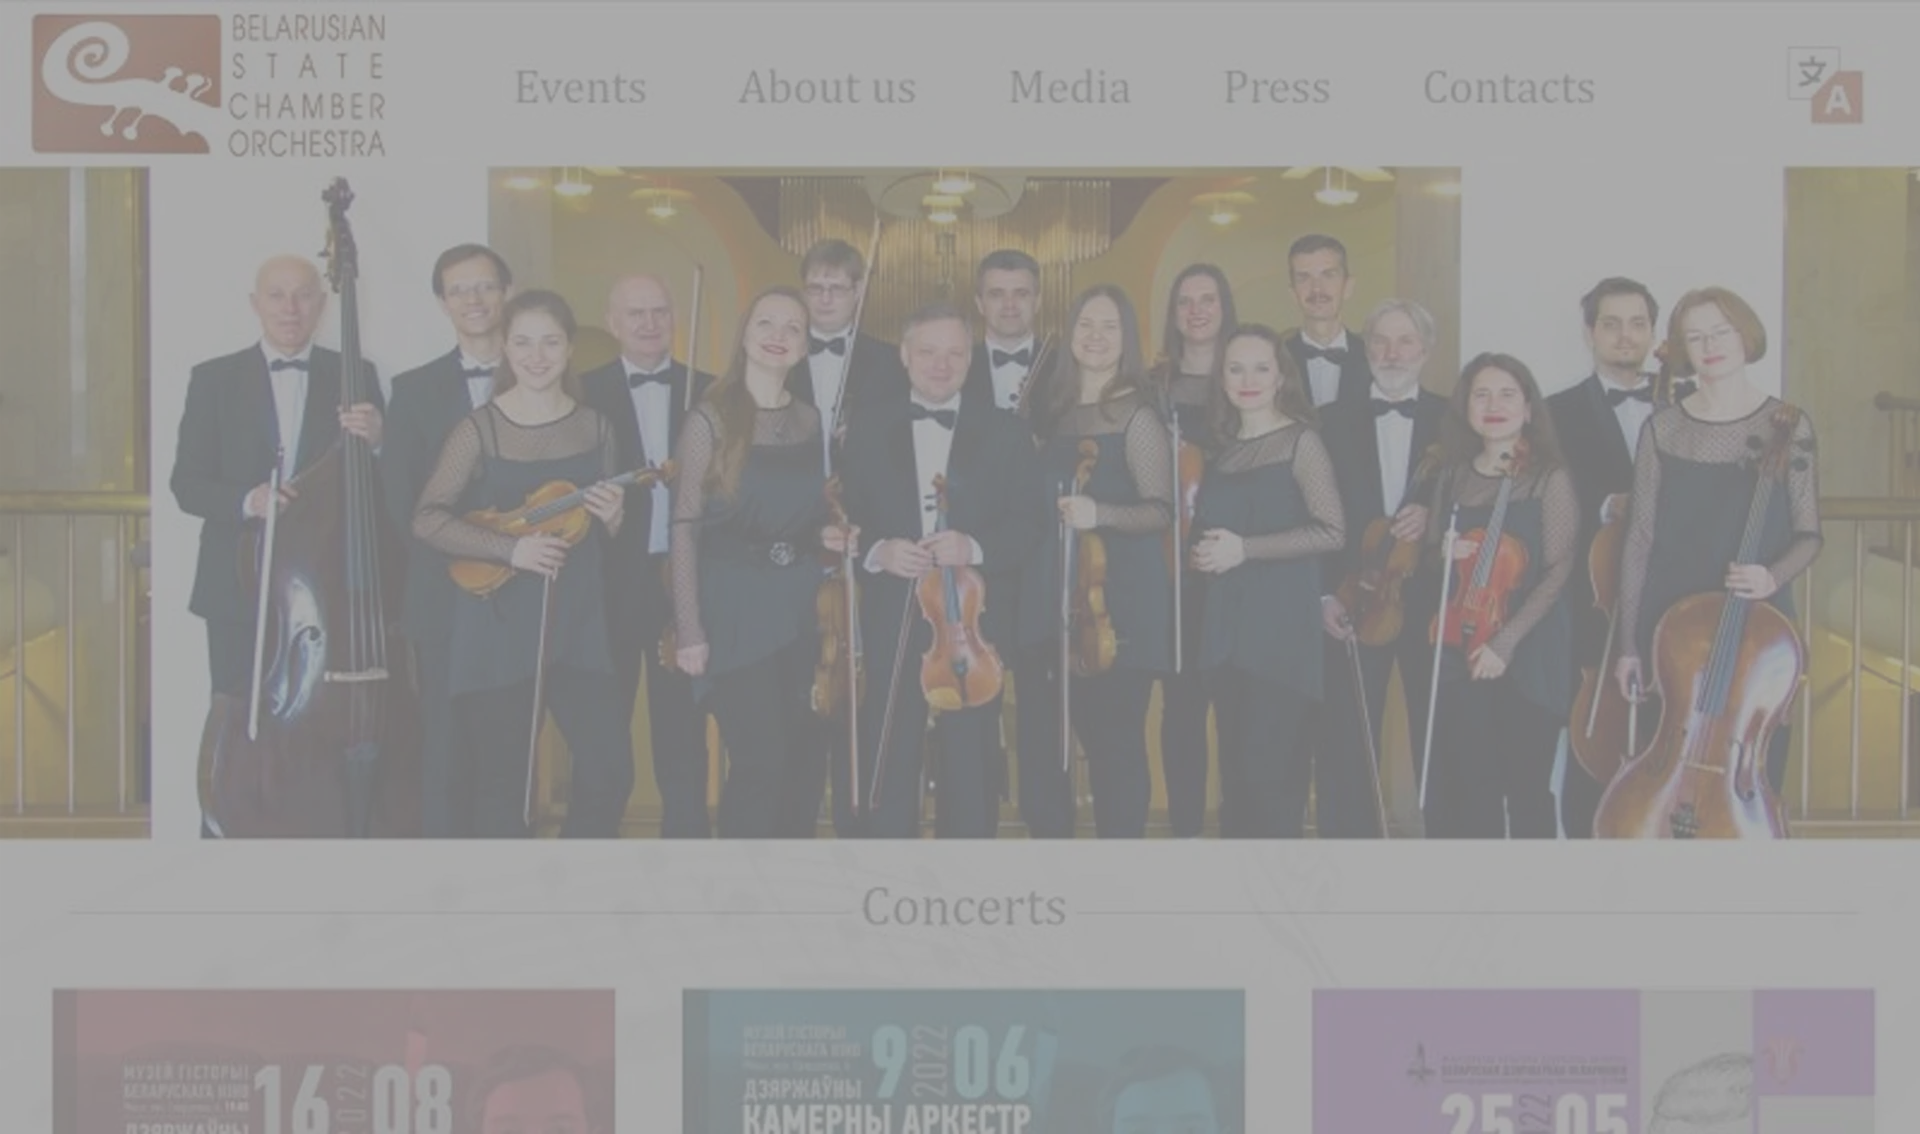
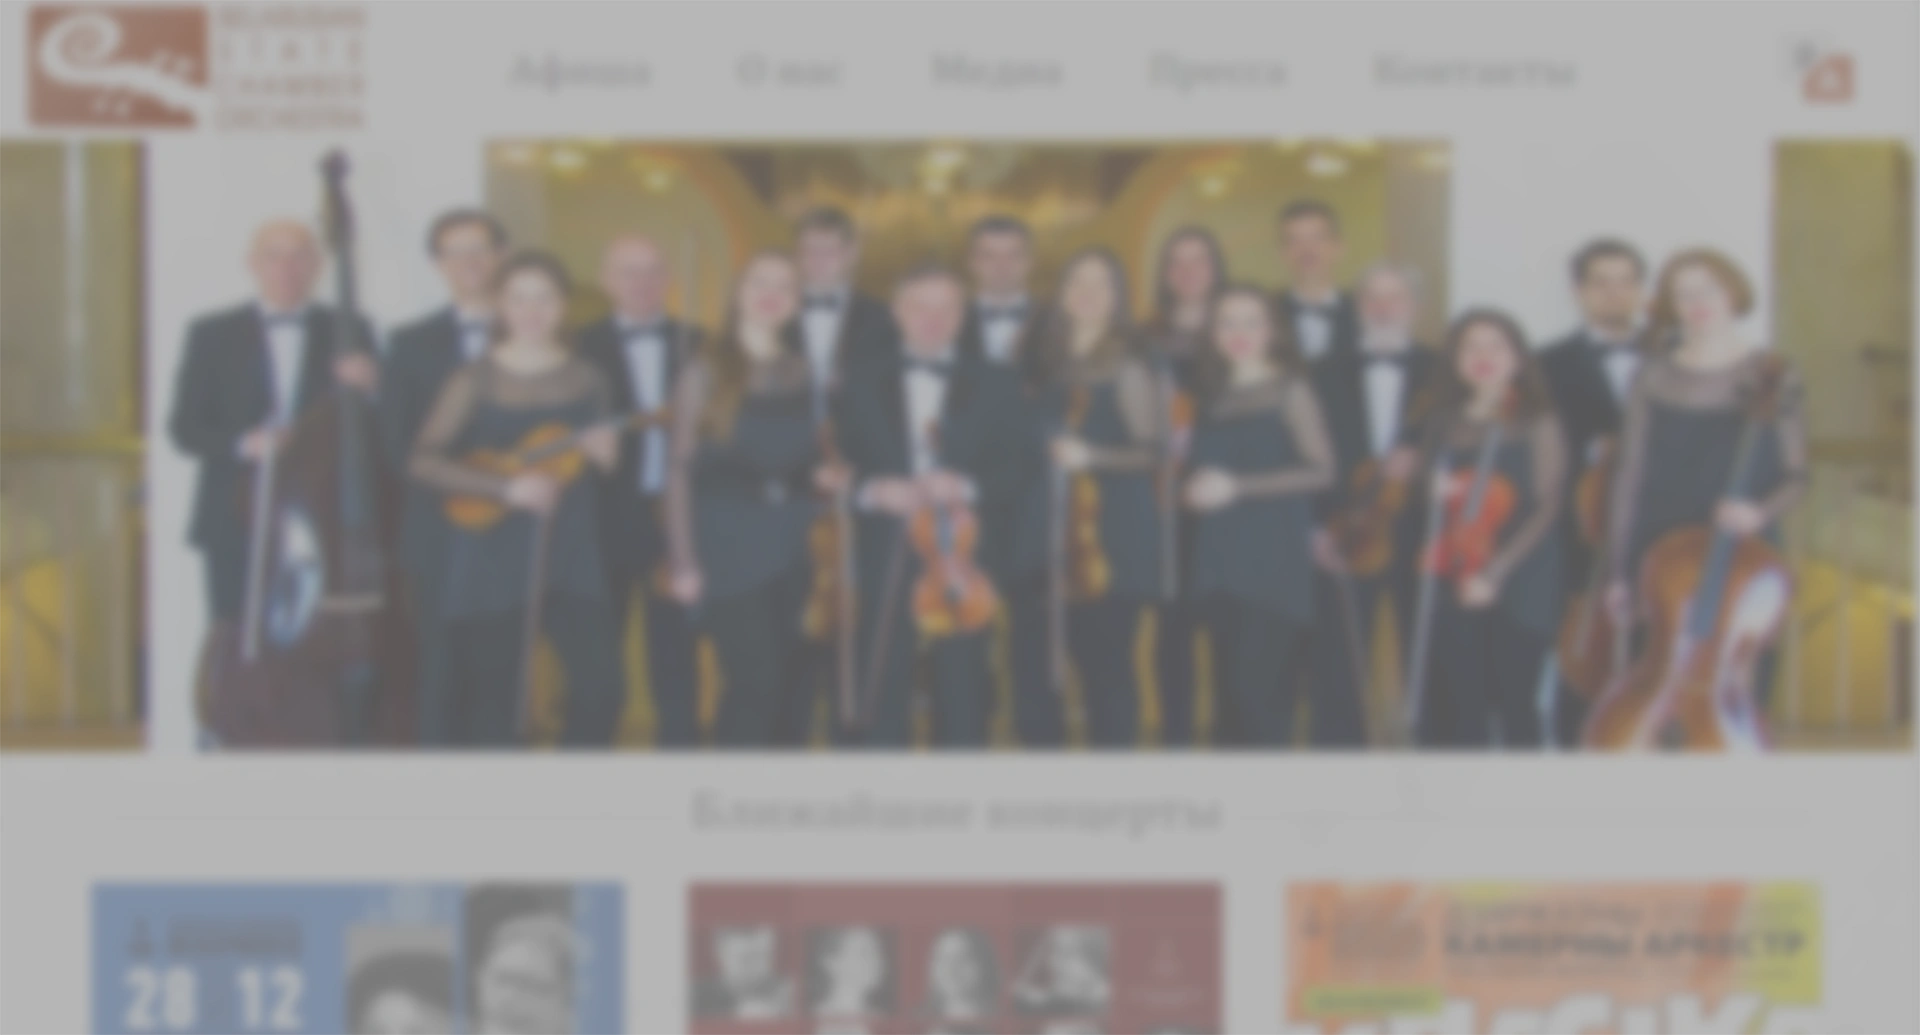
Slider

diff --git a/public/index.html b/public/index.html
@@ -74,19 +74,64 @@
 
     <section id="work">
         <h2>My work</h2>
-        <img class="arrow-side" src="img/controls/arrow-side.png" alt="" />
-        <img class="arrow-side rotate180" src="img/controls/arrow-side.png" alt="" />
-        <div class="work selected">
-            <p>
+        <div class="slider-controls">
+            <img class="arrow-side arrow-side-left" src="img/controls/arrow-side.png" alt="" />
+            <img class="arrow-side arrow-side-right rotate180" src="img/controls/arrow-side.png" alt="" />
+        </div>
+        <div class="work selected visible">
+            <img class="work-background" src="img/works/belsco.webp" alt="" loading="lazy" >
+            <h3>
                 Official site of Belarussian State Chamber Orchestra.
-                https://belsco.net
-            </p>
+            </h3>
+            <a href="https://belsco.net">https://belsco.net</a>
             <p>
                 Designed in Adobe XD and Adobe Photoshop and
                 implemented using the next technological stack: Node.js, Express,
-                MySQL, Handlebars, Jest, Sass. The project features a custom built
+                MySQL, Handlebars, Jest, Sass. <br> The project features a custom built
                 admin content management system, support of 5 languages, full delivery
                 pipeline from building and unit testing to server deployment
+            </p>
+        </div>
+        <div class="work">
+            <img class="work-background" src="img/works/bushkov.webp" alt="" loading="lazy" >
+            <h3>
+                Landing page for People`s Artist of Russia Evgeny Bushkov.
+            </h3>
+            <a href="https://evgenybushkov.belsco.net/">https://evgenybushkov.belsco.net/</a>
+            <p>
+                Designed in Adobe XD and Adobe Photoshop. <br> Implemented using the next technological stack: Node.js, Express, MySQL, Handlebars, Barba.js.
+            </p>
+        </div>
+        
+        <div class="work">
+            <img class="work-background" src="img/works/nik.webp" alt="" loading="lazy" >
+            <h3>
+                Landing page for a fitness trainer Nik Kurdoyak.
+            </h3>
+            <a href="https://trainedbynik.fit/">https://trainedbynik.fit/</a>
+            <p>
+                Designed in Adobe Photoshop based on client layout. <br> Implemented using the next technological stack: Node.js, Express, Handlebars.
+            </p>
+        </div>
+        <div class="work">
+            <img class="work-background" src="img/works/quartet.webp" alt="" loading="lazy" >
+            <h3>
+                Landing page for string quartet Westphalia.
+            </h3>
+            <a href="https://vip-kvartet.by/">https://vip-kvartet.by/</a>
+            <p>
+                It features an admin page for convenient and easy editing of site content for regular users.<br> 
+                Designed in Adobe XD and Adobe Photoshop and implemented using the next technological stack: Node.js, Express, MySQL, Handlebars.
+            </p>
+        </div>
+        <div class="work">
+            <img class="work-background" src="img/works/raman.webp" alt="" loading="lazy" >
+            <h3>
+                Personal site of Raman Kamisarau - concert pianist based in Switzerland.
+            </h3>
+            <a href="https://ramankamisarau.com/">https://ramankamisarau.com/</a>
+            <p>
+                Implemented using the next technological stack: Node.js, React, Strapi. 
             </p>
         </div>
     </section>

diff --git a/public/style.css b/public/style.css
@@ -191,8 +191,17 @@ header {
 }
 
 #work {
-    background: url("img/works/belsco.webp");
+    background-image: url("img/works/belsco.webp");
+    transition: background-image 0.2s ease-in-out;
     color: var(--secondary-color);
+    position: relative;
+    height: 70vh;
+}
+
+#work a {
+    color: var(--secondary-color);
+    display: block;
+    margin: 30px 0 60px 0;
 }
 
 #skills {
@@ -244,10 +253,70 @@ header {
     position: relative;
 }
 
+
+.arrow-side {
+    width: 20px;
+    transition: opacity 0.2s;
+    cursor: pointer;
+}
+
+.arrow-side:hover {
+    opacity: 0.7;
+}
+
+.arrow-side-right {
+    float: right;
+}
+
+.slider-controls {
+    display: block;
+    position: absolute;
+    top: 45%;
+    left: 2%;
+    width: 96%;
+}
+
+.work {
+    padding: 10vw 0 0 0;
+    display: none;
+    opacity: 0;
+    transition: opacity 0.3s;
+}
+
+.work p, .work a {
+    font-size: 1.2rem;
+}
+
+.work h3 {
+    font-size: 1.7rem;
+}
+
+.work.selected {
+    display: block;
+}
+
+.work.visible {
+    opacity: 1;
+}
+
+.work .work-background {
+    display: none;
+}
+
 @media (min-width:600px) {
     #skill-logos {
         display: block;
     }
+    .work {
+        padding: 120px 0 0 0;
+    }
+    .work p, .work a{
+        font-size: 1.5rem;
+    }
+    .work h3 {
+        font-size: 2rem;
+    }
+    
 }
 
 #contacts {
@@ -301,3 +370,9 @@ section li {
         opacity: 0.3;
     }
 }
+
+
+.rotate180 {
+    transform: rotate(180deg);
+}
+

diff --git a/public/script.js b/public/script.js
@@ -1,12 +1,11 @@
-
-
-
-
 let hamburger = document.getElementById("hamburger");
 let menu = document.getElementById("menu");
 let arrowDown = document.querySelector("#promo .arrow-down");
-
-
+let workContainer = document.getElementById("work");
+let workLeftControl = workContainer.querySelector(".slider-controls .arrow-side-left");
+let workRightControl = workContainer.querySelector(".slider-controls .arrow-side-right");
+let works = workContainer.querySelectorAll(".work");
+let currentWorkNumber = 0;
 
 hamburger.addEventListener("click",()=>{
     toggleMenu();
@@ -30,3 +29,20 @@ window.addEventListener("scroll", event => {
         arrowDown.classList.remove("hidden");
     }
 });
+
+
+workRightControl.addEventListener("click", ()=>{
+    changeSlides((currentWorkNumber + 1) % works.length);
+})
+
+workLeftControl.addEventListener("click", ()=>{
+    changeSlides(currentWorkNumber > 0 ? (currentWorkNumber - 1) : works.length -1);
+})
+
+function changeSlides(next){
+    works[currentWorkNumber].classList.remove("selected", "visible");
+    works[next].classList.add("selected");
+    workContainer.style.backgroundImage = `url(${works[next].querySelector("img.work-background").src})`;
+    currentWorkNumber = next;
+    setTimeout(() => works[currentWorkNumber].classList.add("visible"), 100);
+}
